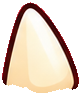
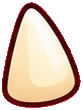
Chomp!: the crocodile's new bottom teeth
The artist's redrawn teeth (bigger at the front) replace the old ones.

diff --git a/web/src/components/learn/Chomp.tsx b/web/src/components/learn/Chomp.tsx
@@ -76,8 +76,8 @@ const ANIMALS: Animal[] = [
 	{
 		id: "crocodile", name: "Crocodile", frame: [1000, 938],
 		teeth: [
-			[318.9, 387.6, 40.9, 59.5], [323.6, 432.4, 47.9, 70.3], [336.7, 483.4, 49.4, 73.4], [362.2, 526.6, 51.7, 68.7], [400, 565.3, 58.7, 72.6], [457.1, 596.9, 61.8, 74.1],
-			[524.3, 596.9, 62.5, 73.4], [584.6, 565.3, 57.9, 72.6], [627.8, 526.6, 51, 68.7], [656.4, 483.4, 47.1, 63.3], [669.5, 432.4, 47.1, 58.7], [681.9, 387.6, 39.4, 49.4],
+			[318.9, 387.6, 40.9, 59.5], [323.6, 432.4, 47.9, 70.3], [336.7, 483.4, 49.4, 73.4], [362.2, 526.6, 53.3, 79.5], [400, 565.3, 59.5, 84.2], [456.4, 596.9, 64.1, 84.9],
+			[523.6, 596.9, 64.1, 84.9], [583.8, 565.3, 59.5, 84.2], [626.3, 526.6, 54.1, 79.5], [654.8, 483.4, 49.4, 73.4], [669.5, 432.4, 47.9, 69.5], [681.9, 387.6, 40.2, 59.5],
 		],
 	},
 ];
